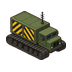
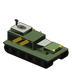
Fix

diff --git a/tools/sprites/render_rig.py b/tools/sprites/render_rig.py
@@ -1,0 +1,311 @@
+#!/usr/bin/env python3
+"""Rig: the tracked carrier that unpacks into a Core. One 16-face hull.
+
+Same numpy rasterizer, camera, splinter camo, and outline as render_mammoth.py
+and render_nebelwerfer.py. No gun. The packed module is the Core folded down:
+a tall olive body, hazard bands on the sides, a dark stern door, and the
+radar dish lying flat on a low rear step. The built Core art is not touched.
+
+0001 = nose screen-south, then clockwise 22.5° through 0016.
+
+The client still loads the composed sheet (frameSize 192, contactY 0.9,
+one frame). This script writes the drop-in faces and rebuilds that sheet
+and the 72px cameo, so deploy, draw size, and the sprite def stay put.
+
+  python tools/sprites/render_rig.py \\
+      --out gridlock/packages/client/src/assets/units/rig
+"""
+
+from __future__ import annotations
+
+import argparse
+import math
+from pathlib import Path
+
+import numpy as np
+from PIL import Image, ImageDraw
+
+from render_procedural import Mesh, render_turntable
+
+# Meters. +x nose, +y left, +z up. Tracks on z = 0.
+SCALE_FRAC = 0.086
+Z_MID = 1.5
+CY_FRAC = 0.64
+
+HULL_L0, HULL_L1 = -3.55, 4.15
+DECK = 1.18
+TRACK_Y = 1.52
+TRACK_HALF = 0.44
+TRACK_R = 0.58
+
+# The module stops short of the cab so the driver's box reads on its own.
+MOD_X0, MOD_X1 = -3.35, 0.85
+MOD_W = 1.18
+BODY_Z = 2.55
+TOWER_X0, TOWER_X1 = -3.1, -1.05
+TOWER_W = 0.88
+TOWER_Z = 3.05
+
+CELL = 192
+CONTACT_Y = 0.9
+PADDING = 6
+CAMEO_FACE = "0014"  # ESE: cab, module, and one track
+CAMEO_SIZE = 72
+CAMEO_GAIN = 1.55
+CAMEO_LIFT = 0.04
+
+ENGINE_ORDER = [
+    "S", "SSW", "SW", "WSW", "W", "WNW", "NW", "NNW",
+    "N", "NNE", "NE", "ENE", "E", "ESE", "SE", "SSE",
+]
+
+
+def slab(m: Mesh, bottom: list[tuple[float, float]], z0: float, z1: float, top: list[tuple[float, float]], mat: str, top_mat: str | None = None) -> None:
+    bot = [m.v((x, y, z0)) for x, y in bottom]
+    tp = [m.v((x, y, z1)) for x, y in top]
+    n = len(bot)
+    for i in range(n):
+        j = (i + 1) % n
+        m.quad(bot[i], bot[j], tp[j], tp[i], mat)
+    for i in range(1, n - 1):
+        m.tri(tp[0], tp[i], tp[i + 1], top_mat or mat)
+        m.tri(bot[0], bot[i + 1], bot[i], mat)
+
+
+def track(m: Mesh, y: float) -> None:
+    """A track run as a stadium, road wheels on the outer face, skirt over the top run."""
+    x0, x1 = HULL_L0 + 0.25, HULL_L1 - 0.15
+    n = 10
+    prof: list[np.ndarray] = []
+    for k in range(n + 1):
+        a = -math.pi / 2 + math.pi * k / n
+        prof.append(np.array([x1 - TRACK_R + TRACK_R * math.cos(a) + 0.2 * max(0.0, math.sin(a)), 0.0, TRACK_R + TRACK_R * math.sin(a)]))
+    for k in range(n + 1):
+        a = math.pi / 2 + math.pi * k / n
+        prof.append(np.array([x0 + TRACK_R + TRACK_R * math.cos(a), 0.0, TRACK_R + TRACK_R * math.sin(a)]))
+    rings = [[p + np.array([0.0, yy, 0.0]) for p in prof] for yy in (y - TRACK_HALF, y + TRACK_HALF)]
+    m.loft(rings, "tire")
+    side = y + (TRACK_HALF + 0.02) * (1 if y > 0 else -1)
+    span = x1 - x0 - 2.0
+    for i in range(5):
+        cx = x0 + 1.0 + i * span / 4
+        hub = [np.array([cx + 0.32 * math.cos(2 * math.pi * k / 10), side, 0.52 + 0.32 * math.sin(2 * math.pi * k / 10)]) for k in range(10)]
+        m.loft([hub, [p + np.array([0, 0.03 * (1 if y > 0 else -1), 0]) for p in hub]], "metal")
+    o = 1 if y > 0 else -1
+    m.box(
+        (x0 + 0.15, min(y - TRACK_HALF - 0.06 * (o < 0), y + TRACK_HALF), 0.95),
+        (x1 - 0.1, max(y + TRACK_HALF + 0.06 * (o > 0), y - TRACK_HALF), DECK + 0.06),
+        "camo",
+    )
+
+
+def ribbon(m: Mesh, y_wall: float, outward: float, x0: float, z0: float, x1: float, z1: float, half: float, mat: str, depth: float = 0.1) -> None:
+    """A diagonal bar standing proud of a side face. `outward` is +1 or -1 along y."""
+    dx, dz = x1 - x0, z1 - z0
+    length = math.hypot(dx, dz) or 1.0
+    px, pz = -dz / length * half, dx / length * half
+    y_in = y_wall + outward * 0.02
+    y_out = y_in + outward * depth
+
+    def ring(yy: float) -> list[int]:
+        return [
+            m.v((x0 + px, yy, z0 + pz)),
+            m.v((x1 + px, yy, z1 + pz)),
+            m.v((x1 - px, yy, z1 - pz)),
+            m.v((x0 - px, yy, z0 - pz)),
+        ]
+
+    a, b = ring(y_in), ring(y_out)
+    for i in range(4):
+        j = (i + 1) % 4
+        m.quad(a[i], a[j], b[j], b[i], mat)
+    m.quad(b[0], b[1], b[2], b[3], mat)
+
+
+def ellipse(m: Mesh, z: float, cx: float, cy: float, rx: float, ry: float, mat: str, n: int = 28) -> None:
+    center = m.v((cx, cy, z))
+    rim = [m.v((cx + rx * math.cos(2 * math.pi * k / n), cy + ry * math.sin(2 * math.pi * k / n), z)) for k in range(n)]
+    for k in range(n):
+        m.tri(center, rim[k], rim[(k + 1) % n], mat)
+
+
+def build_hull() -> Mesh:
+    m = Mesh()
+    hw = 1.05
+    # Belly between the tracks, deck across both.
+    m.box((HULL_L0 + 0.35, -hw, 0.38), (HULL_L1 - 0.55, hw, DECK - 0.06), "metal")
+    m.box((HULL_L0 + 0.1, -(TRACK_Y + TRACK_HALF - 0.05), DECK - 0.08), (HULL_L1 - 0.2, TRACK_Y + TRACK_HALF - 0.05, DECK + 0.06), "camo")
+
+    # Cab: lower and longer than the module, sloped screen, gray team roof, yellow lamps.
+    slab(
+        m,
+        [(0.95, -hw), (2.85, -0.98), (2.85, 0.98), (0.95, hw)],
+        DECK + 0.06,
+        2.22,
+        [(1.15, -0.88), (2.35, -0.7), (2.35, 0.7), (1.15, 0.88)],
+        "camo",
+        "team",
+    )
+    m.box((2.35, -0.9, DECK + 0.5), (3.85, 0.9, DECK + 0.98), "camo")  # hood
+    m.box((3.78, -0.48, DECK + 0.58), (3.88, 0.48, DECK + 0.82), "frame")  # grille
+    m.box((2.15, -0.62, 1.7), (2.32, 0.62, 1.88), "frame")  # windscreen slit
+    for s in (-1, 1):
+        m.box((1.35, s * 1.02 - 0.02, 1.52), (2.05, s * 1.02 + 0.02, 1.68), "frame")
+        m.box((3.68, s * 0.68 - 0.14, DECK + 0.78), (3.92, s * 0.68 + 0.14, DECK + 1.02), "hazard")
+
+    # Packed core: flat-sided body so the hazard bands sit on a real face, then the tower step.
+    m.box((MOD_X0, -MOD_W, DECK + 0.06), (MOD_X1, MOD_W, BODY_Z), "camo")
+    m.box((TOWER_X0, -TOWER_W, BODY_Z - 0.02), (TOWER_X1, TOWER_W, TOWER_Z), "camo", "team")
+    # Dark boards on both sides, then two thick hazard bands. Same marks, both flanks.
+    for s in (-1, 1):
+        wall = s * MOD_W
+        m.box(
+            (MOD_X0 + 0.2, min(wall, wall + s * 0.05), DECK + 0.32),
+            (MOD_X1 - 0.15, max(wall, wall + s * 0.05), BODY_Z - 0.18),
+            "frame",
+        )
+        x_lo, x_hi = MOD_X0 + 0.55, MOD_X1 - 0.35
+        z_lo, z_hi = DECK + 0.48, BODY_Z - 0.32
+        for t in (0.34, 0.68):
+            cx = x_lo + (x_hi - x_lo) * t
+            cz = (z_lo + z_hi) / 2
+            ribbon(m, wall + s * 0.05, float(s), cx - 0.62, cz - 0.48, cx + 0.62, cz + 0.48, 0.2, "hazard", 0.12)
+    # Stern door: the Core's gate, shut.
+    m.box((MOD_X0 - 0.08, -0.72, DECK + 0.28), (MOD_X0 + 0.02, 0.72, BODY_Z - 0.28), "frame")
+    m.box((MOD_X0 - 0.14, -0.52, DECK + 0.48), (MOD_X0 - 0.06, 0.52, BODY_Z - 0.48), "tire")
+    # Folded dish and a short mast on the tower roof.
+    ellipse(m, TOWER_Z + 0.05, -2.05, 0.0, 0.7, 0.46, "metal")
+    m.box((-2.2, -0.16, TOWER_Z + 0.05), (-1.9, 0.16, TOWER_Z + 0.18), "frame")
+    m.box((-2.95, -0.05, TOWER_Z), (-2.82, 0.05, TOWER_Z + 0.85), "metal")
+    m.box((-3.1, -0.05, TOWER_Z + 0.68), (-2.68, 0.05, TOWER_Z + 0.78), "metal")
+
+    for s in (-1, 1):
+        track(m, s * TRACK_Y)
+    return m
+
+
+def opaque_bbox(im: Image.Image, alpha_min: int = 8) -> tuple[int, int, int, int] | None:
+    bb = im.split()[-1].point(lambda v: 255 if v >= alpha_min else 0).getbbox()
+    return bb
+
+
+def compose_sheet(src: Path, sheet_path: Path, cameo_path: Path, preview: Path) -> None:
+    """One scale and one contact for all 16 faces, into the engine sheet."""
+    frames = [Image.open(src / f"{i:04d}.png").convert("RGBA") for i in range(1, 17)]
+    boxes = []
+    bottoms = []
+    for im in frames:
+        bb = opaque_bbox(im)
+        if not bb:
+            raise SystemExit(f"empty rig frame in {src}")
+        boxes.append(bb)
+        bottoms.append(bb[3])
+    union = (
+        min(b[0] for b in boxes),
+        min(b[1] for b in boxes),
+        max(b[2] for b in boxes),
+        max(b[3] for b in boxes),
+    )
+    uw, uh = union[2] - union[0], union[3] - union[1]
+    max_w = CELL - 2 * PADDING
+    max_h = CELL - 2 * PADDING
+    scale = min(max_w / uw, max_h / uh)
+    cx = frames[0].size[0] / 2
+    med_bottom = sorted(bottoms)[len(bottoms) // 2]
+    ox = CELL / 2 - cx * scale
+    oy = CELL * CONTACT_Y - med_bottom * scale
+    # Keep the whole union inside the cell. Tracks should still land on contactY.
+    min_oy = PADDING - union[1] * scale
+    max_oy = CELL - PADDING - union[3] * scale
+    if max_oy < min_oy:
+        oy = (min_oy + max_oy) / 2
+    else:
+        oy = min(max_oy, max(min_oy, oy))
+
+    cells: list[Image.Image] = []
+    for im in frames:
+        cell = Image.new("RGBA", (CELL, CELL), (0, 0, 0, 0))
+        nw, nh = max(1, round(im.size[0] * scale)), max(1, round(im.size[1] * scale))
+        cell.alpha_composite(im.resize((nw, nh), Image.Resampling.LANCZOS), (round(ox), round(oy)))
+        cells.append(cell)
+
+    sheet = Image.new("RGBA", (CELL, 16 * CELL), (0, 0, 0, 0))
+    for i, cell in enumerate(cells):
+        sheet.alpha_composite(cell, (0, i * CELL))
+    sheet_path.parent.mkdir(parents=True, exist_ok=True)
+    sheet.save(sheet_path)
+
+    # Cameo is the 3/4 face, brightened, wheels on the bottom of the 72 frame.
+    placed = cells[int(CAMEO_FACE) - 1]
+    bb = opaque_bbox(placed)
+    if not bb:
+        raise SystemExit("cameo empty")
+    crop = placed.crop(bb)
+    px = np.asarray(crop).astype(np.float64) / 255
+    rgb = px[..., :3]
+    dark = rgb.max(axis=-1, keepdims=True) < 0.12
+    px[..., :3] = np.where(dark, rgb, np.clip(rgb * CAMEO_GAIN + CAMEO_LIFT, 0, 1))
+    crop = Image.fromarray((px * 255 + 0.5).astype(np.uint8), "RGBA")
+    pad = 3
+    fit = (CAMEO_SIZE - 2 * pad) / max(crop.width, crop.height)
+    small = crop.resize((max(1, round(crop.width * fit)), max(1, round(crop.height * fit))), Image.Resampling.LANCZOS)
+    cameo = Image.new("RGBA", (CAMEO_SIZE, CAMEO_SIZE), (0, 0, 0, 0))
+    cameo.alpha_composite(small, ((CAMEO_SIZE - small.width) // 2, CAMEO_SIZE - pad - small.height))
+    cameo.save(cameo_path)
+
+    preview.mkdir(parents=True, exist_ok=True)
+    label_h = 16
+    board = Image.new("RGB", (4 * CELL, 4 * (CELL + label_h)), (28, 26, 24))
+    draw = ImageDraw.Draw(board)
+    for i, name in enumerate(ENGINE_ORDER):
+        r, c = divmod(i, 4)
+        x, y = c * CELL, r * (CELL + label_h)
+        board.paste(cells[i].convert("RGB"), (x, y), cells[i])
+        draw.text((x + 4, y + CELL + 2), f"{i} {name}", fill=(220, 214, 200))
+    board.save(preview / "rig-turntable.png")
+    draw_px = 80
+    strip = Image.new("RGBA", (16 * draw_px, draw_px), (40, 36, 32, 255))
+    for i, cell in enumerate(cells):
+        strip.alpha_composite(cell.resize((draw_px, draw_px), Image.Resampling.LANCZOS), (i * draw_px, 0))
+    strip.save(preview / "rig-strip.png")
+
+    contacts = []
+    clips = []
+    for i, name in enumerate(ENGINE_ORDER):
+        bb = opaque_bbox(cells[i])
+        if not bb:
+            continue
+        contacts.append(round(bb[3] / CELL, 3))
+        if bb[0] <= 1 or bb[1] <= 1 or bb[2] >= CELL - 1 or bb[3] >= CELL - 1:
+            clips.append(name)
+    print("sheet", sheet_path, "scale", round(scale, 3), "contact", contacts)
+    print("cameo", cameo_path)
+    if clips:
+        print("CLIPPED", clips)
+
+
+def main() -> None:
+    ap = argparse.ArgumentParser()
+    ap.add_argument("--out", required=True, help="unit folder; writes hull/ inside it and the sheet beside it")
+    ap.add_argument("--ss", type=int, default=4)
+    ap.add_argument("--compose-only", action="store_true")
+    args = ap.parse_args()
+    out = Path(args.out)
+    if not args.compose_only:
+        render_turntable(
+            build_hull(),
+            out / "hull",
+            "rig_hull",
+            "rig-hull.json",
+            scale_frac=SCALE_FRAC,
+            z_mid=Z_MID,
+            cy_frac=CY_FRAC,
+            ss=args.ss,
+        )
+    root = out.parent
+    preview = Path(__file__).resolve().parent / "preview"
+    compose_sheet(out / "hull", root / "rig-move.png", root / "rig-cameo.png", preview)
+
+
+if __name__ == "__main__":
+    main()
